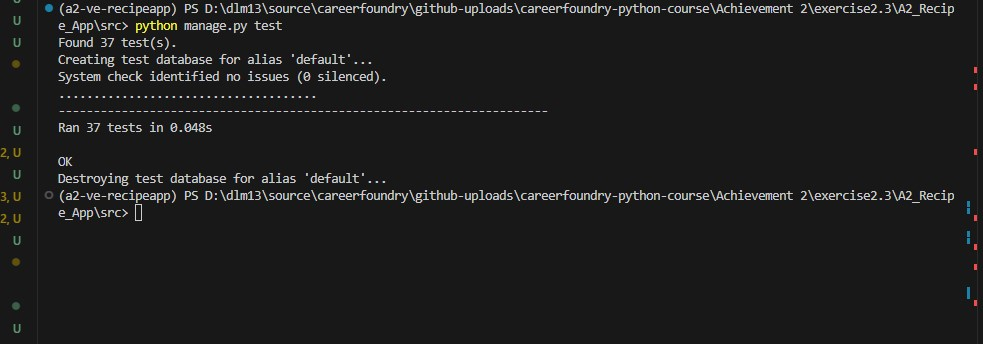
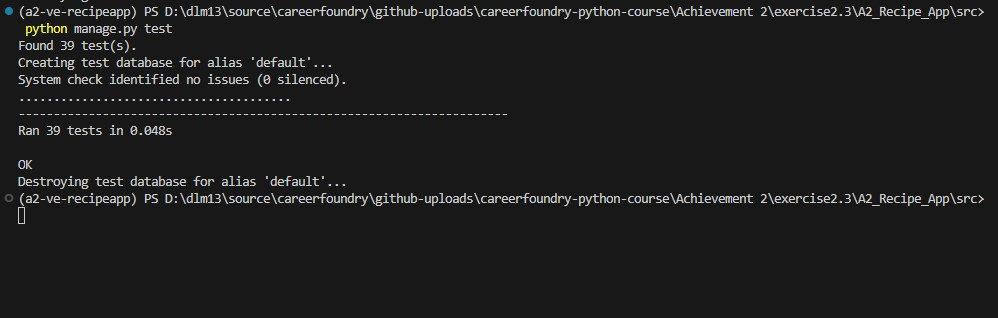
README.md update and learning journal.

diff --git a/Achievement 2/exercise2.3/A2_Recipe_App/src/recipeingredientintermediary/tests.py b/Achievement 2/exercise2.3/A2_Recipe_App/src/recipeingredientintermediary/tests.py
@@ -1,4 +1,51 @@
 from django.test import TestCase
- 
- 
+from .models import RecipeIngredientIntermediary
+from recipe.models import Recipe
+from recipeingredient.models import RecipeIngredient
+from ingredient.models import Ingredient
+
+
 # Create your tests here
+class RecipeIngredientIntermediaryModelTest(TestCase):
+    def setUpTestData():
+        ingredient = Ingredient.objects.create(name="cheese")
+        curr_recipe = Recipe.objects.create(
+            title="Nachos",
+            directions="Put nachos on a plate with cheese, cook in microwave. Add sour cream, jalapenos, salsa, and lettuce.",
+            cooking_time=50,
+            star_count=5,
+            recipe_type="snack",
+            adapted_link="https://nachos.com",
+            servings=3,
+            yield_amount=12,
+            allergens="unknown",
+        )
+        curr_recipeingredient = RecipeIngredient.objects.create(
+            ingredient=ingredient,
+            recipe=curr_recipe,
+            calorie_content=20,
+            amount=1.5,
+            amount_type="cup",
+            cost=20.40,
+            supplier="supplier",
+            grams=20.22,
+        )
+        RecipeIngredientIntermediary.objects.create(
+            recipe=curr_recipe,
+            recipe_ingredient=curr_recipeingredient,
+        )
+
+    def test_intermediary_recipe(self):
+        intermediary = RecipeIngredientIntermediary.objects.get(id=1)
+
+        field_label = intermediary._meta.get_field("recipe").verbose_name
+
+        self.assertEqual(field_label, "recipe")
+    
+    def test_intermediary_recipeingredient(self):
+        intermediary = RecipeIngredientIntermediary.objects.get(id=1)
+
+        field_label = intermediary._meta.get_field("recipe_ingredient").verbose_name
+
+        self.assertEqual(field_label, "recipe ingredient")
+ 

diff --git a/README.md b/README.md
@@ -27,6 +27,9 @@ This repository contains exercises and scripts for the CareerFoundry Python cour
   - [Process](#exercise_21-process)
 - [Exercise_2.2](#exercise_22)
   - [Process](#exercise_22-process)
+- [Exercise_2.3](#exercise_23)
+  - [Installation](#exercise_23-installation)
+  - [Usage](#exercise_23-usage)
 - [Authors](#authors)
 - [Acknowledgments](#acknowledgments)
  
@@ -223,8 +226,7 @@ This task involved researching Django's benefits, drawbacks, and where the frame
 
 ------------------------------------------------------------------------------------------------------------------------
 ------------------------------------------------------------------------------------------------------------------------
-------------------------------------------------------------------------------------------------------------------------
-------------------------------------------------------------------------------------------------------------------------
+--------------------------------------------------------------------------------------------------------- 
 
 ## Exercise_2.2
 
@@ -241,6 +243,37 @@ This task involved learning how to structure Django projects, migrate database t
 - Learned terms related to django projects, mainly the difference between project application and app modules in the project application.
 - Also looked over configuration files such as the urls.py for routing, settings.py for database access/admin settings/globals/etc.
 
+------------------------------------------------------------------------------------------------------------------------
+------------------------------------------------------------------------------------------------------------------------
+
+## Exercise_2.3
+
+Created models for the Recipe App that can be interacted with on the admin url.
+
+------------------------------------------------------------------------------------------------------------------------
+
+### Exercise_2.3-Installation
+
+To install and run the scripts, follow these steps:
+
+1. Ensure you have Python 3.8.7
+2. Create a virtual environment.
+3. Activate the virtual environments in the terminal.
+4. navigate to A2_Recipe_App\src
+5. Install django
+6. make migrations.
+7. migrate.
+8. make superuser.
+9. run server.
+10. add /admin to end up url.
+
+------------------------------------------------------------------------------------------------------------------------
+
+### Exercise_2.3-Usage
+
+- When you go to the admin site you can create recipes and add all the ingredients. I tried to add all the fields that will be needed as a base. I broke down the project into 5 apps(ingredient, recipe, recipeingredient, recipeingredientintermediary, user). There are data relationships connecting all of the models created. The recipeingredientintermediary was necessary to associate ingredients with individual recipes, without the recipes adding all ingredients for all recipes. The recipeingredientintermediary connects a many to many relationship between recipe and recipeingredient, allowing each individual recipe to only contain the ingredients that are associated with it.
+------------------------------------------------------------------------------------------------------------------------
+------------------------------------------------------------------------------------------------------------------------
 ## Authors
 
 David McNeill
